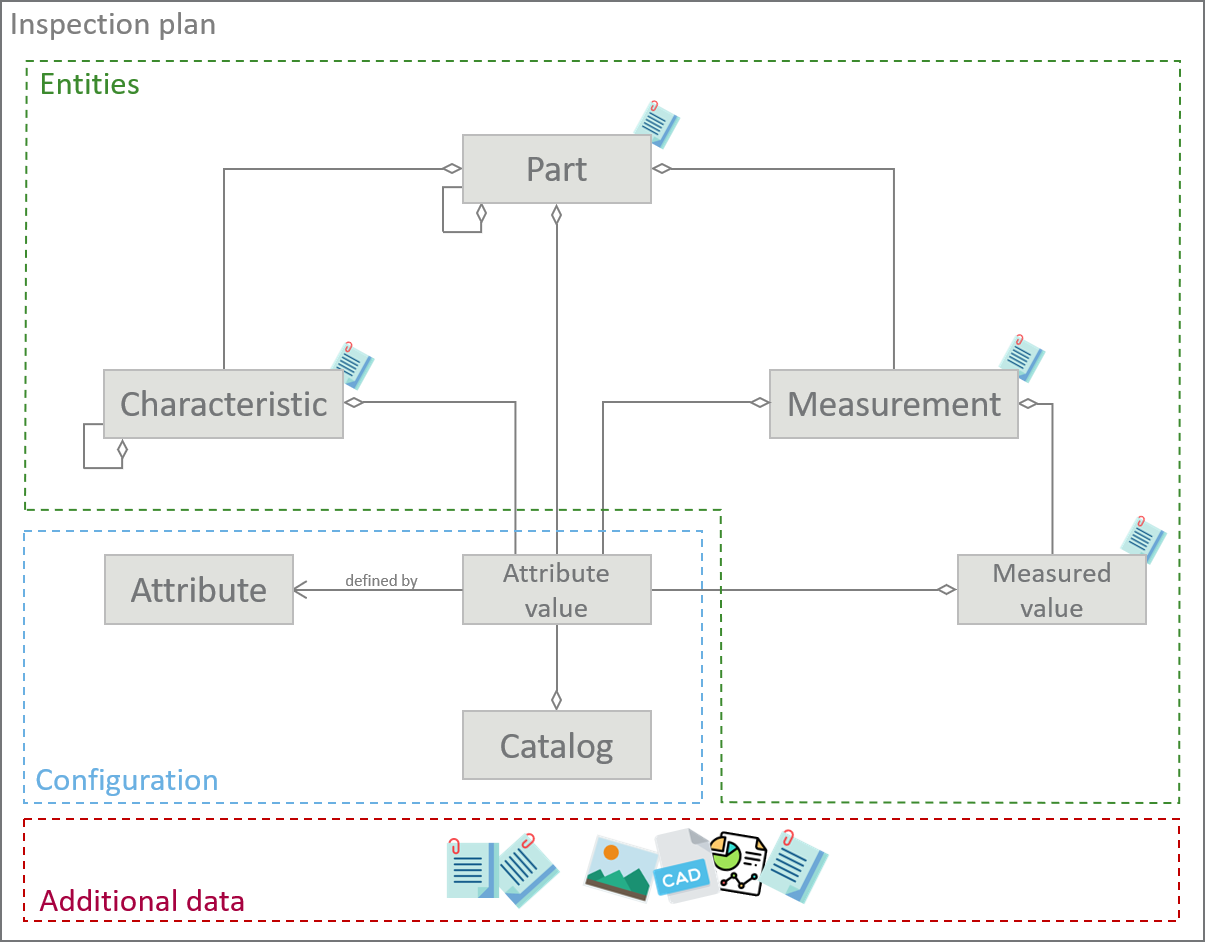
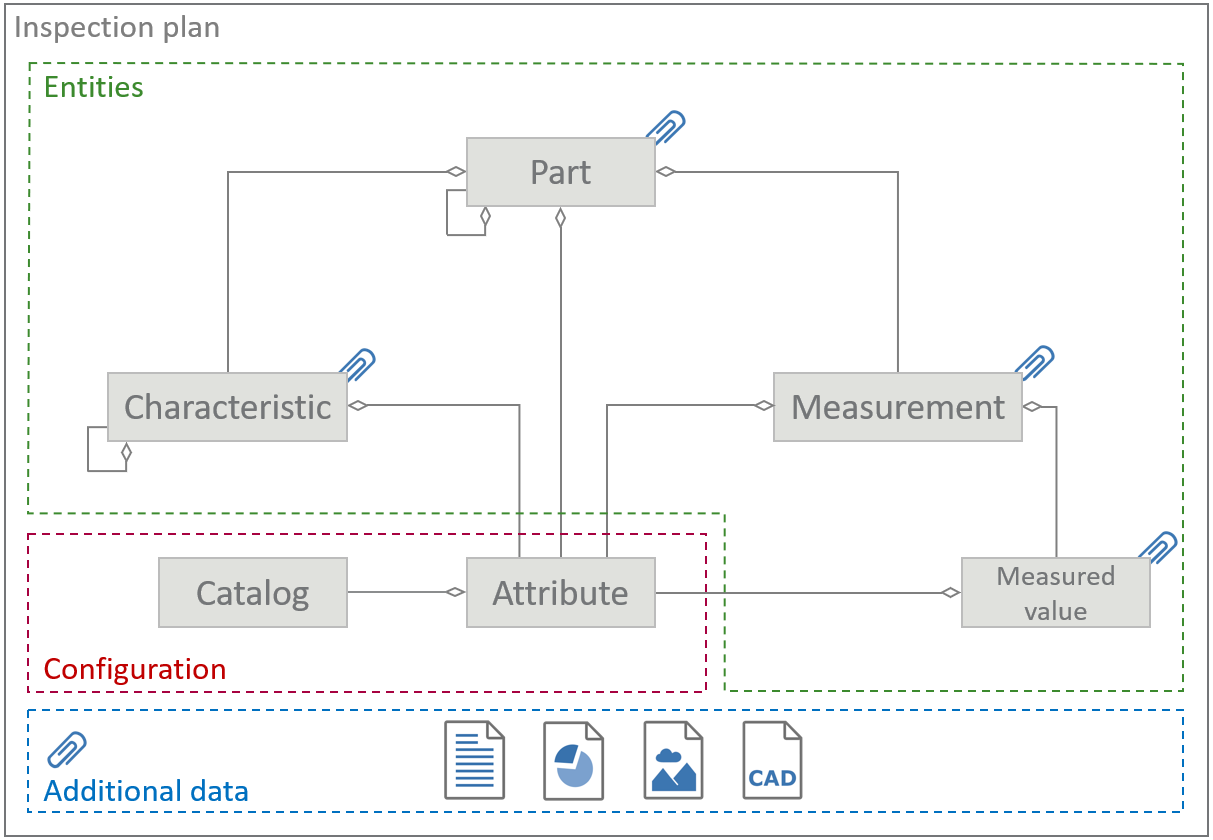
doc: PiWeb Domain Model V1.1
- changed wording, fixed typos
- new example inspection plan tree
- changed domain model image

Changed region(s): [[0.0, 0.0, 1.0, 1.0], [0.5834, 0.7429, 0.6141, 0.8048]]

diff --git a/_pages/API/01-general.md b/_pages/API/01-general.md
@@ -41,164 +41,164 @@ sections:
 <h1 id="{{page.sections['general'].anchor}}">{{page.sections['general'].title}}</h1>
 
 ### What is PiWeb?
-PiWeb is a quality data management system capable of saving, managing, retrieving and analizing measurement data from production. All data is available anytime and anywhere through a web-service, which makes you independent of your current location. Thanks to real-time data analysis, it is possible to react quickly to any problems within the production. Further information can be found here:
+PiWeb is a quality data management system capable of saving, managing, retrieving and analyzing quality inspection data from production. All data is available anytime and anywhere through a web-service, which makes you independent of your current location. Thanks to real-time data analysis, it is possible to react quickly to any problems within production. Further information can be found at
 [ZEISS PiWeb](https://www.zeiss.com/metrology/products/software/piweb.html "ZEISS Metrology products").
 
 ### What is the PiWeb API?
-The PiWeb-API provides the public interface of the web service through which various requests can be sent to the PiWeb server. This includes creating, managing and removing data, as well as retrieving relevant files and information from the PiWeb server. The used architecture is based on REpresentational State Transfer (REST), a detailed description can be found [here](https://medium.com/@sagar.mane006/understanding-rest-representational-state-transfer-85256b9424aa "Understanding REST").
+The PiWeb-API provides the public interface of the web service through which various requests can be sent to the PiWeb server. You can create, manage and remove data, or retrieve relevant files and information from the PiWeb server. The used architecture is based on REpresentational State Transfer (REST), a detailed description can be found [here](https://medium.com/@sagar.mane006/understanding-rest-representational-state-transfer-85256b9424aa "Understanding REST").
 
-**The API basically fulfils two purposes:**
+**The API fulfils two purposes:**
 
-> **Purpose 1**: *Writing new measurement data / connecting measurement software to the system* <br>
-The interface allows new measurement data to be written to the database from software other than PiWeb itself. This enables communication between various measuring instruments and the PiWeb server.
++ **Purpose 1**: *Writing new measurement data / connecting measurement software to the system* <br>
+The interface allows you to write new measurement data to the database from software other than PiWeb itself. This enables communication between various measuring instruments and the PiWeb server.
 
-> **Purpose 2**: *Customer-specific evaluation of measurement data* <br>
-Furthermore, the API offers the possibility to query and retrieve measurement data according to certain criteria, in order to be able to process them in a special way. This means that customer-specific evaluations which are not provided by PiWeb itself can still be executed with custom software. Information about the structure of API requests can be found in this documentation.
++ **Purpose 2**: *Customer-specific evaluation of measurement data* <br>
+Furthermore, the API offers the possibility to query and retrieve measurement data according to certain criteria, in order to be able to process them in a special way. This means that customer-specific evaluations which are not provided by PiWeb itself can still be executed with custom software. You can find information about the structure of API requests in this documentation.
 
 <br>
-**The overall architecture concerning the API can be split into two components:**
+**The PiWeb API actually consists of two APIs:**
 
 {% capture table %}
 REST API        | .NET SDK (C# API)
 ------------- | -----------------------------------------------------------------------------------
-This is the actual interface of the PiWeb-server. It consists of two main services, Data and RawData Service. For more information, see [Services](#gi-services "Services"). Requests are queried using HTTP(S), and data transfered in JSON format, see [Formats](#gi-formats "Formats"). | This development kit implements Data- and RawData Client, which offer different funtionalities of the respective REST endpoints. This way development can be done using .NET objects, methods and available properties provided by these endpoints, instead of pure HTTP(S) and JSON. Further information can be found in the [.NET SDK documentation](http://zeiss-piweb.github.io/PiWeb-Api/sdk/ ".NET SDK documentation")
+This is the actual interface of the PiWeb-server. It consists of two main services, DataService and RawDataService. For more information, see [Services](#gi-services "Services"). Requests are made using HTTP(S), and data is transferred in JSON format, see [Formats](#gi-formats "Formats"). | This development kit implements Data- and RawData Client, which offer different functionalities of the respective REST endpoints. This way you can develop software using .NET objects, methods and available properties instead of pure HTTP(S) and JSON. You can find further information in the [.NET SDK documentation](http://zeiss-piweb.github.io/PiWeb-Api/sdk/ ".NET SDK documentation")
 {% endcapture %}
 {{ table | markdownify | replace: '<table>', '<table class="table table-hover">' }}
 
-Both components are versioned independently.
+Both APIs are versioned independently.
 
 <h2 id="{{page.sections['general']['secs']['model'].anchor}}">{{page.sections['general']['secs']['model'].title}}</h2>
 
-This section gives you a brief overview of the PiWeb domain model and explains common terminology used for the PiWeb API. The following image represents a simplified version of the PiWeb domain model: <br>
+This section gives you a brief overview of the PiWeb domain model and explains common terminology used for the PiWeb API. The following image shows a simplified version of the PiWeb domain model: <br>
 <br>
 <img src="/PiWeb-Api/images/domain_model_en.png" class="img-responsive center-block">
 
 ### Inspection Plan
-Inspection plans specify the structure of parts, characteristics and possible sub-parts and sub-characteristics. In order to get a better understanding of these, they are displayed in a tree structure. The uppermost part forms a root part, and the entries following in further levels subnodes or leaves, as usual in a tree structure. Implicitly, the connected PiWeb server represents the general root node of all objects, from which any arbitrary one can be reached. Inspection plans are created on the basis of the desired parts to be measured and monitored. The inspection plan allows nesting, so that parts and characteristics can again contain such entities. It should be noted that characteristics cannot contain any parts.
+Inspection plans specify the structure of parts, characteristics and possible sub-parts and sub-characteristics. In order to get a better understanding of these, they are displayed in a tree structure. The uppermost part forms a root part, and the entries following in further levels subnodes or leaves. Implicitly, the connected PiWeb server represents the general root node of all objects, from which any arbitrary one can be reached. <br>
+You can create inspection plans on the basis of the desired parts you want to measure and monitor. The inspection plan allows nesting, so that parts and characteristics can again contain such entities. Characteristics cannot contain any parts.
+
+The following image shows an example of a simple inspection plan:
+
+<img src="/PiWeb-Api/images/example_tree.png" class="img-responsive center-block">
+
 <hr>
 ### Entities
 PiWeb's data structure is based on the following four entities: **parts**, **characteristics**, **measurements** and **measured values**. An entity is therefore an object that has certain properties and interaction possibilities. They form the center of the logic that runs within the system.
 
 #### Parts
-Parts as well as their production and monitoring are the reason why PiWeb exists at all. They can represent a simple component up to complex assemblies . They describe a part in general, i.e. they specify the type, but not the real part itself. This means that parts that are later measured in real terms do not occur individually in the system, but are assigned to the component as the respective measurement. It is also possible to assign subparts to a part, this can be repeated numerous times.
+Parts can represent a simple component up to complex assemblies. They describe a workpiece in general, in other words the workpiece type. This means that real parts that are later measured do not occur individually in the system, but are assigned to the workpiece as the respective measurement. It is also possible to assign subparts to a part, this can be repeated numerous times.
 
 #### Characteristics
-Characteristics can also be described as distinctive or important properties of a part. Examples would be bores, curves or oblong holes, i.e. places where accuracy needs to be checked. A characteristic can again have sub-characteristic, which can be repeated many times. An example would be a hole that still contains diameter and coordinates as sub-characteristics. <br>
+Characteristics can be described as distinctive or important properties of a part. Examples would be bores, curves or oblong holes, i.e. places where accuracy needs to be checked. A characteristic can again have characteristic, which can be repeated many times. An example would be a hole that contains diameter and coordinates as sub-characteristics. <br>
 
-*Types of characteristics*:
-+ Characteristic <br>
+Types of characteristics:
++ *Characteristic* <br>
 The basic characteristic that can be assigned to parts and other characteristics.
 
-+ Measurement point <br>
-A characteristic which represents a point to measure, including coordinates and tolerance. These can only belong to a part, and not to another characteristics.
++ *Measurement point* <br>
+A characteristic which represents a point to measure, including coordinates and tolerance. These can only belong to a part and not to another characteristics.
 
-+ Calculated characteristic <br>
-A special type which is based on two other characteristics and a calculation rule to determine the value. Can contain other basic or calculated characteristics, but no measurement points.
++ *Calculated characteristic* <br>
+A special type which is based on two other characteristics and a calculation rule to determine the value. It can contain other basic or calculated characteristics, but no measurement points.
 
-+ Calculated measurement point <br>
-A special type of measurement point that can be used to calculate distance, symmetry or misalignment of two other points.
++ *Calculated measurement point* <br>
+A special type of measurement point that can be used to calculate distance, symmetry or offset of two other points.
 
 #### Measurement
 A measurement is a specific measurement process that can affect several characteristics. For example, if an inspector measures a part and records one, several, or all existing characteristics, this procedure and its values describe a measurement. Not all characteristics need to be measured. A measurement always belongs to only one part, deleting the part also removes the measurements.
 
 #### Measured Values
-A measured value describes an actual measured or recorded value that is assigned to a characteristic or attribute. They are part of a measurement. Values can be **numerical**, e.g. a simple floating point number, or **attributive**. These are characteristics whose values can be categorized. An example would be the result of a quality inspection, which can either be *passed* or *failed*. These categories can be counted, so in this case the number would be two. **Attributively counting** characteristics are those that consider the number of a certain characteristic. If one examines a painted component for damaged spots, one can also count the occurences. The part then has, for example, two damaged spots, whereby this again represents a category, namely the parts with the exact number of two defects. These characteristics are therefore not "measurable" in the conventional sense.
+A measured value describes an actual measured or recorded value that is assigned to a characteristic or attribute. They are part of a measurement. Values can be **numerical**, e.g. a simple floating point number, or **attributive**. Values of attributive characteristics can be categorized. An example would be the result of a quality inspection, which can either be *passed* or *failed*. These categories can be counted, so in this case the number would be two. <br>
+
+ **Attributively counting** characteristics are those that consider the number of a certain characteristic. If you examine a painted component for damaged spots, you can also count the occurrences. The part then has, for example, two damaged spots, whereby this again represents a category, namely the parts with the exact number of two defects. These characteristics are therefore not "measurable" in the conventional sense.
 <hr>
 ### Configuration
-The configuration describes the management of various attributes and catalogs. Both can be created, existing ones edited or removed.
+The configuration defines attributes and catalogs. Both can be created, existing ones edited or removed.
 
 #### Attributes
-Characteristic and attribute have a semantically similar meaning, but need to be distinguished in PiWeb. Attributes are divided into four groups according to their affiliation to an entity. Therefore, there are part-, characteristic-, measurement- and measured value attributes. These can be seen as properties of an entity. For example, a characteristic can contain attributes such as characteristic-ID, upper and lower limit, target value, and much more. For parts there are attributes like part-ID, the factory area or a short description. The most important attribute of a measured value is the actual value, but there are no restrictions. Attributes are part of the configuration, and can be set individually. You assign a unique key to each attribute, define description, data type and length. The possible data types are *string*, *integer*, *floating point*, *date* and *catalog*. Catalog entries also have attributes, and form a kind of fifth group, although they are not an explicit entity. Some important attributes are explained further below.
+Characteristic and attribute have a similar meaning, but need to be distinguished in PiWeb. Attributes are divided into four groups according to their affiliation to an entity. Therefore, there are part-, characteristic-, measurement- and measured value attributes. These can be seen as properties of an entity. For example, a characteristic can contain attributes such as characteristic-ID, upper and lower limit, target value, and much more. For parts there are attributes like part-ID, the factory area or a short description. The most important attribute of a measured value is the actual value, but there are no restrictions.
 
-#### Catalogs
-As the name suggests, catalogs represent a collection of different values. An entry has a number and can have several other attributes. Catalogs are used to simplify decisions at certain points by specifying the possible values. The user does not have to enter data by hand, and cannot inadvertently cause typing errors. An example would be the machine catalog. This contains the different machines which could be used to measure a part. Additional information for each machine can be noted there too. Now an inspector can select the responsible machine from the catalog when entering a measurement, which makes things a lot easier. Other values than those stored in the catalog are then not possible. Also simple variants, like the direction catalog, which contains directions like left and right, are possible.
-<hr>
-### Additional Data
-Additional data can be seen as a kind of attachment that can be added to any entity in the inspection plan. This can be text, images, log files and much more. Binary files, most often CAD models of the part, can also be attached as additional files. There is no limit to the number of files, and additional data can be edited or removed as desired.
-<hr>
+Attributes are part of the configuration, and can be set individually. You assign a unique key to each attribute, define description, data type and length. The available data types are `string`, `integer`, `floating-point`, `date` and `catalog`. Catalog entries also have attributes and form a kind of fifth group, although they are not an explicit entity.
+
+The unique key is important, as it has the purpose of an identifier for PiWeb to identify different attributes. The measurement date as an example has the key K4. PiWeb knows different important attributes and their keys, changing them is not advised.
+
 #### Important attributes
-To get a better understanding of important attributes, you can find some basic information below
+To get a better understanding of important attributes, you can find some basic information below:
 
-+ **Nominal value** <br>
-The desired value a characteristic should have, to which the actual measured value should be as close as possible
-
-+ **Measured value** <br>
++ *Measured value: K1* <br>
 The attribute of a measured value, which contains the actual value.
 
-+ **Upper/Lower limit** <br>
++ *Measurement date: K4* <br>
+The date of measurement.
+
++ *Nominal value: K2100* <br>
+The desired value a characteristic should have, to which the actual measured value should be as close as possible
+
++ *Lower/Upper limit: K2110/K2111*<br>
 The limit of acceptable tolerance between the nominal value and actual values.
 
-+ **Upper/Lower warning limit** <br>
++ *Lower/Upper contact limit: K8012/K8013*<br>
+A limit that determines when actions regarding production should be taken based on the number of bad parts
+
++ *Lower/Upper warning limit: K8014/K8015*<br>
 A limit that determines when a warning about bad values should be triggered
 
-+ **Upper/Lower contact limit** <br>
-A limit that determines when actions regarding production should be taken based on the number of bad parts
+#### Catalogs
+As the name suggests, catalogs represent a collection of different values. An entry has a number and can have several other attributes. Catalogs are used to simplify decisions at certain points by specifying the possible values. The user does not have to enter data by hand, and cannot cause unintended typing errors.
+
+ An example would be the machine catalog. This contains the different machines which could be used to measure a part. Additional information for each machine can be noted there too. Now an inspector selects the responsible machine from the catalog when entering a measurement, which makes things a lot easier. Other values than those stored in the catalog are not possible. Also simple variants, like the direction catalog, which contains directions like left and right, are possible.
+<hr>
+### Additional Data
+Additional data are attachments that can be added to any entity in the inspection plan. This can be text, images, log files, CAD models or any binary file. There is no limit to the number of files and you can edit or remove additional data as desired.
+<hr>
 
 <h2 id="{{page.sections['general']['secs']['services'].anchor}}">{{page.sections['general']['secs']['services'].title}}</h2>
 
-#### Data Service
-The REST Data Service is the endpoint for everything related to PiWeb data like parts, characteristics, measurements, measured values, attributes and catalogs. Creating, managing and removing data is done using requests queried to this service. <br>
+#### DataService
+The REST DataService is the endpoint for everything related to PiWeb data like parts, characteristics, measurements, measured values, attributes and catalogs. Creating, managing and removing data is done using requests send to this service. <br>
+
 The base address is:
 ```http
 http(s)://serverUri:port/instanceName/DataServiceRest
 ```
 
-For further information see the [Data Service documentation](http://zeiss-piweb.github.io/PiWeb-Api/dataservice/v1.4/ "Data Service documentation")
+For further information see the [DataService documentation](http://zeiss-piweb.github.io/PiWeb-Api/dataservice/v1.4/ "Data Service documentation")
 
 #### Raw Data Service
-The REST Raw Data Service is responsible for everything regarding additional data attached to certain entities. It is possible to fetch, create, update and delete raw data objects by using this endpoint. <br>
+Use the RawDataService to fetch, create, update and delete additional data, i.e. raw data. <br>
+
 The base address is:
 ```http
 http(s)://serverUri:port/instanceName/RawDataServiceRest
 ```
-For further information see the [RawData Service documentation](http://zeiss-piweb.github.io/PiWeb-Api/rawdataservice/v1.4/ "RawData Service documentation")
+For further information see the [RawDataService documentation](http://zeiss-piweb.github.io/PiWeb-Api/rawdataservice/v1.4/ "RawData Service documentation")
 
 ><span class="glyphicon glyphicon-info-sign glyphicon-text" aria-hidden="true"></span> `instanceName` and `https` are optional and depend on the server settings.
 
 <h2 id="{{page.sections['general']['secs']['versioning'].anchor}}">{{page.sections['general']['secs']['versioning'].title}}</h2>
 
 #### How is the PiWeb API versioned?
-The versioning of the API is based on the principle of **Semantic Versioning** ([SemVer](https://semver.org/ "Semantic Versioning")). The version consists of three components in `X.Y.Z` format, e.g. `2.4.1`. According to this order, the components are *Major*, *Minor* and *Patch*, which have the following meaning:
+PiWeb uses **Semantic Versioning** ([SemVer](https://semver.org/ "Semantic Versioning")) for its APIs. The REST API, its services and the .NET SDK are versioned independently. The version consists of three components in `X.Y.Z` format, e.g. `2.4.1`. According to this order, the components are *Major*, *Minor* and *Patch*, which have the following meaning:
 
->**Major**: *Incompatible Change (Breaking Change)* <br>
-If this part of the version number increases, a not backwards compatible change was implemented. This means that the changed functionality is only supported as of this major release, and only then delivers the expected results. Examples are changes in the behavior of methods, addition of not optional parameters or changing data types.
++ **Major**: *Incompatible Change (Breaking Change)* <br>
+If the major version changes, we implemented a change that is not compatible with older API versions. This means that the changed functionality is only supported as of this major release. Examples are changes in the behavior of methods, addition of non-optional parameters or changing data types.
 
->**Minor**: *Compatible Change* <br>
-A change to the minor version indicates the addition of a downward compatible feature. This means that there are no discrepancies between an older version and the current version with regards to the expected results. Older clients can still communicate with the newer version, not supported features a marked as such. Due to this compatibility, it is advisable to keep the minor version up to date in order to avoid possible errors in previous versions.
++ **Minor**: *Compatible Change* <br>
+A change to the minor version indicates the addition of a backwards compatible feature. This means that existing features and their usages still return the expected results. Software with an older version can communicate with the newer version, not supported features are marked as such.
 
->**Patch**: *Compatible Bugfix* <br>
-As the name suggests, the change of this version number indicates a patch, i.e. the fix of internal errors or bugs. This is downward compatible and has no relevance regarding the API interface.
++ **Patch**: *Compatible Bugfix* <br>
+The change of this version number indicates a patch, i.e. fixing of internal errors or bugs. This is downward compatible and has no relevance regarding the API interface.
 
-Information about the respective changes can be found in the Release Notes.
-
-#### How do I get the current version of the PiWeb-Server?
-
-There are several ways to get this information.
-
->**Option 1**: *Access via server information*. <br>
-If you have direct access to the server, you can get the server information via the Info button (blue question mark at the top right of the server interface). The current version is displayed there.
-
->**Option 2**: *Access via server endpoint*. <br>
-A simple request via HTTP(S) to the server in form of <br>
-```html
-http(s)://ServerUri:Port/instanceName/index
-```
-opens the information page of the corresponding PiWeb server. The current version is displayed there. <br>
-The following request also returns the server version in text form:
-```html
-http(s)://ServerUri:Port/instanceName/serviceInformation
-```
-Response: The server runs on version 7.4.0.0
-```html
-7.4.0.0-20190528T152434Z-0351f074c49ddb9a07a6f4a9bb2674d116c37092
-```
+A list of changes can be found in the Release Notes.
 
 #### How do I get the API versions supported by the PiWeb server?
-
-A request to the desired service provides the supported versions:
+<br>
+The .NET SDK has a global version, depending on your chosen NuGet package or GitHub source files. <br>
+The REST API instead doesn't have a version as a whole, there are only the versions of the endpoints. <br>
+A request to the desired services endpoint provides the supported versions:
 ```html
 http(s)://ServerUri:Port/instanceName/dataServiceRest
-
+or
 http(s)://ServerUri:Port/instanceName/rawDataServiceRest
 ```
 
@@ -209,7 +209,7 @@ Response:
 
 <h2 id="{{page.sections['general']['secs']['formats'].anchor}}">{{page.sections['general']['secs']['formats'].title}}</h2>
 
-The input and output format is [JSON](https://www.json.org/ "JSON definition") as it is the most performance and memory efficient format at the moment, and still offers easy readability.
+The input and output format is [JSON](https://www.json.org/ "JSON definition").
 
 A sample JSON representation of a part in PiWeb:
 ```json
@@ -224,40 +224,40 @@ A sample JSON representation of a part in PiWeb:
 ```
 
 <h2 id="{{page.sections['general']['secs']['security'].anchor}}">{{page.sections['general']['secs']['security'].title}}</h2>
-Access to PiWeb server service might require authentication. Authentication can be either *basic authentication* based on username and password or *Windows authentication* based on Active Directory integration.
+Access to PiWeb server service might require authentication. Authentication can be either *basic authentication*, based on username and password, or *Windows authentication* based on Active Directory integration.
 
 If PiWeb Server is secured by basic authentication you have to pass the credentials in the HTTP Authorization header. The authorization header must contain the `Basic` key word followed by base64 encoded `user:password` string:
 
-{% highlight http %}
-
+```http
 Authorization: Basic QWRtaW5pc3RyYXRvcjphZG0hbiFzdHJhdDBy
-
-{% endhighlight %}
+```
 
 <h2 id="{{page.sections['general']['secs']['parameter'].anchor}}">{{page.sections['general']['secs']['parameter'].title}}</h2>
 
 You can restrict requests by attaching certain parameters to the webservice URL in the following format:
 
-{% highlight http %}
+```http
 ?parameter=value[&parameter=value]
-{% endhighlight %}
+```
 
 <br/>Example:
 
-{% highlight http %}
+```http
 ?deep=true&order=4 asc
-{% endhighlight %}
+```
 
 <br/>
 ><span class="glyphicon glyphicon-info-sign glyphicon-text" aria-hidden="true"></span> If the parameter contains lists of ids it needs to be surrounded by `{` and `}`, the values within the list are separated by `,`.
 
 >{{ site.headers['bestPractice'] }} Encode the URL
-As some parameter defintions may contain special characters like brackets, space or plus sign it is highly recommended to encode the URL before sending requests to prevent unexpected behaviors.
+As some parameter definitions may contain special characters like brackets, space or plus sign it is highly recommended to encode the URL before sending requests to prevent unexpected behaviors.
 
 <h2 id="{{page.sections['general']['secs']['codes'].anchor}}">{{page.sections['general']['secs']['codes'].title}}</h2>
 
+The following table shows different HTTP status codes and the possible reason that caused it.
+
 {% capture table %}
-Method        | Statuscodes
+Method        | Status codes
 ------------- | -----------------------------------------------------------------------------------
 GET           | **200** (OK)<br> **400** (Bad request) - Request failed <br> **404** (Not found) - Endpoint or item does not exist
 POST           | **201** (Created)<br> **400** (Bad request) – Creation of at least one item failed, e.g. due to bad formatting <br> **404** (Not found) – Endpoint doesn't exist <br> **409** (Conflict) – An item does already exist
@@ -270,12 +270,10 @@ DELETE        | **200** (OK)<br>**400** (Bad request) – Request of at least on
 <h2 id="{{page.sections['general']['secs']['response'].anchor}}">{{page.sections['general']['secs']['response'].title}}</h2>
 Every response consists either of the requested data or of an error message returned by the webservice. A typical error response looks as follows:
 
-{% highlight json %}
+```json
 {
    "message": "Unable to insert inspection plan items. An item with path '/metal part/'
                [uuid: 05040c4c-f0af-46b8-810e-30c0c00a379e] does already exist."
 }
-{% endhighlight %}
-
+```
 <br>
-Icons made by Freepik, Smashicons, Dimitry Miroliubov from [flaticon.com](http://www.flaticon.com)
